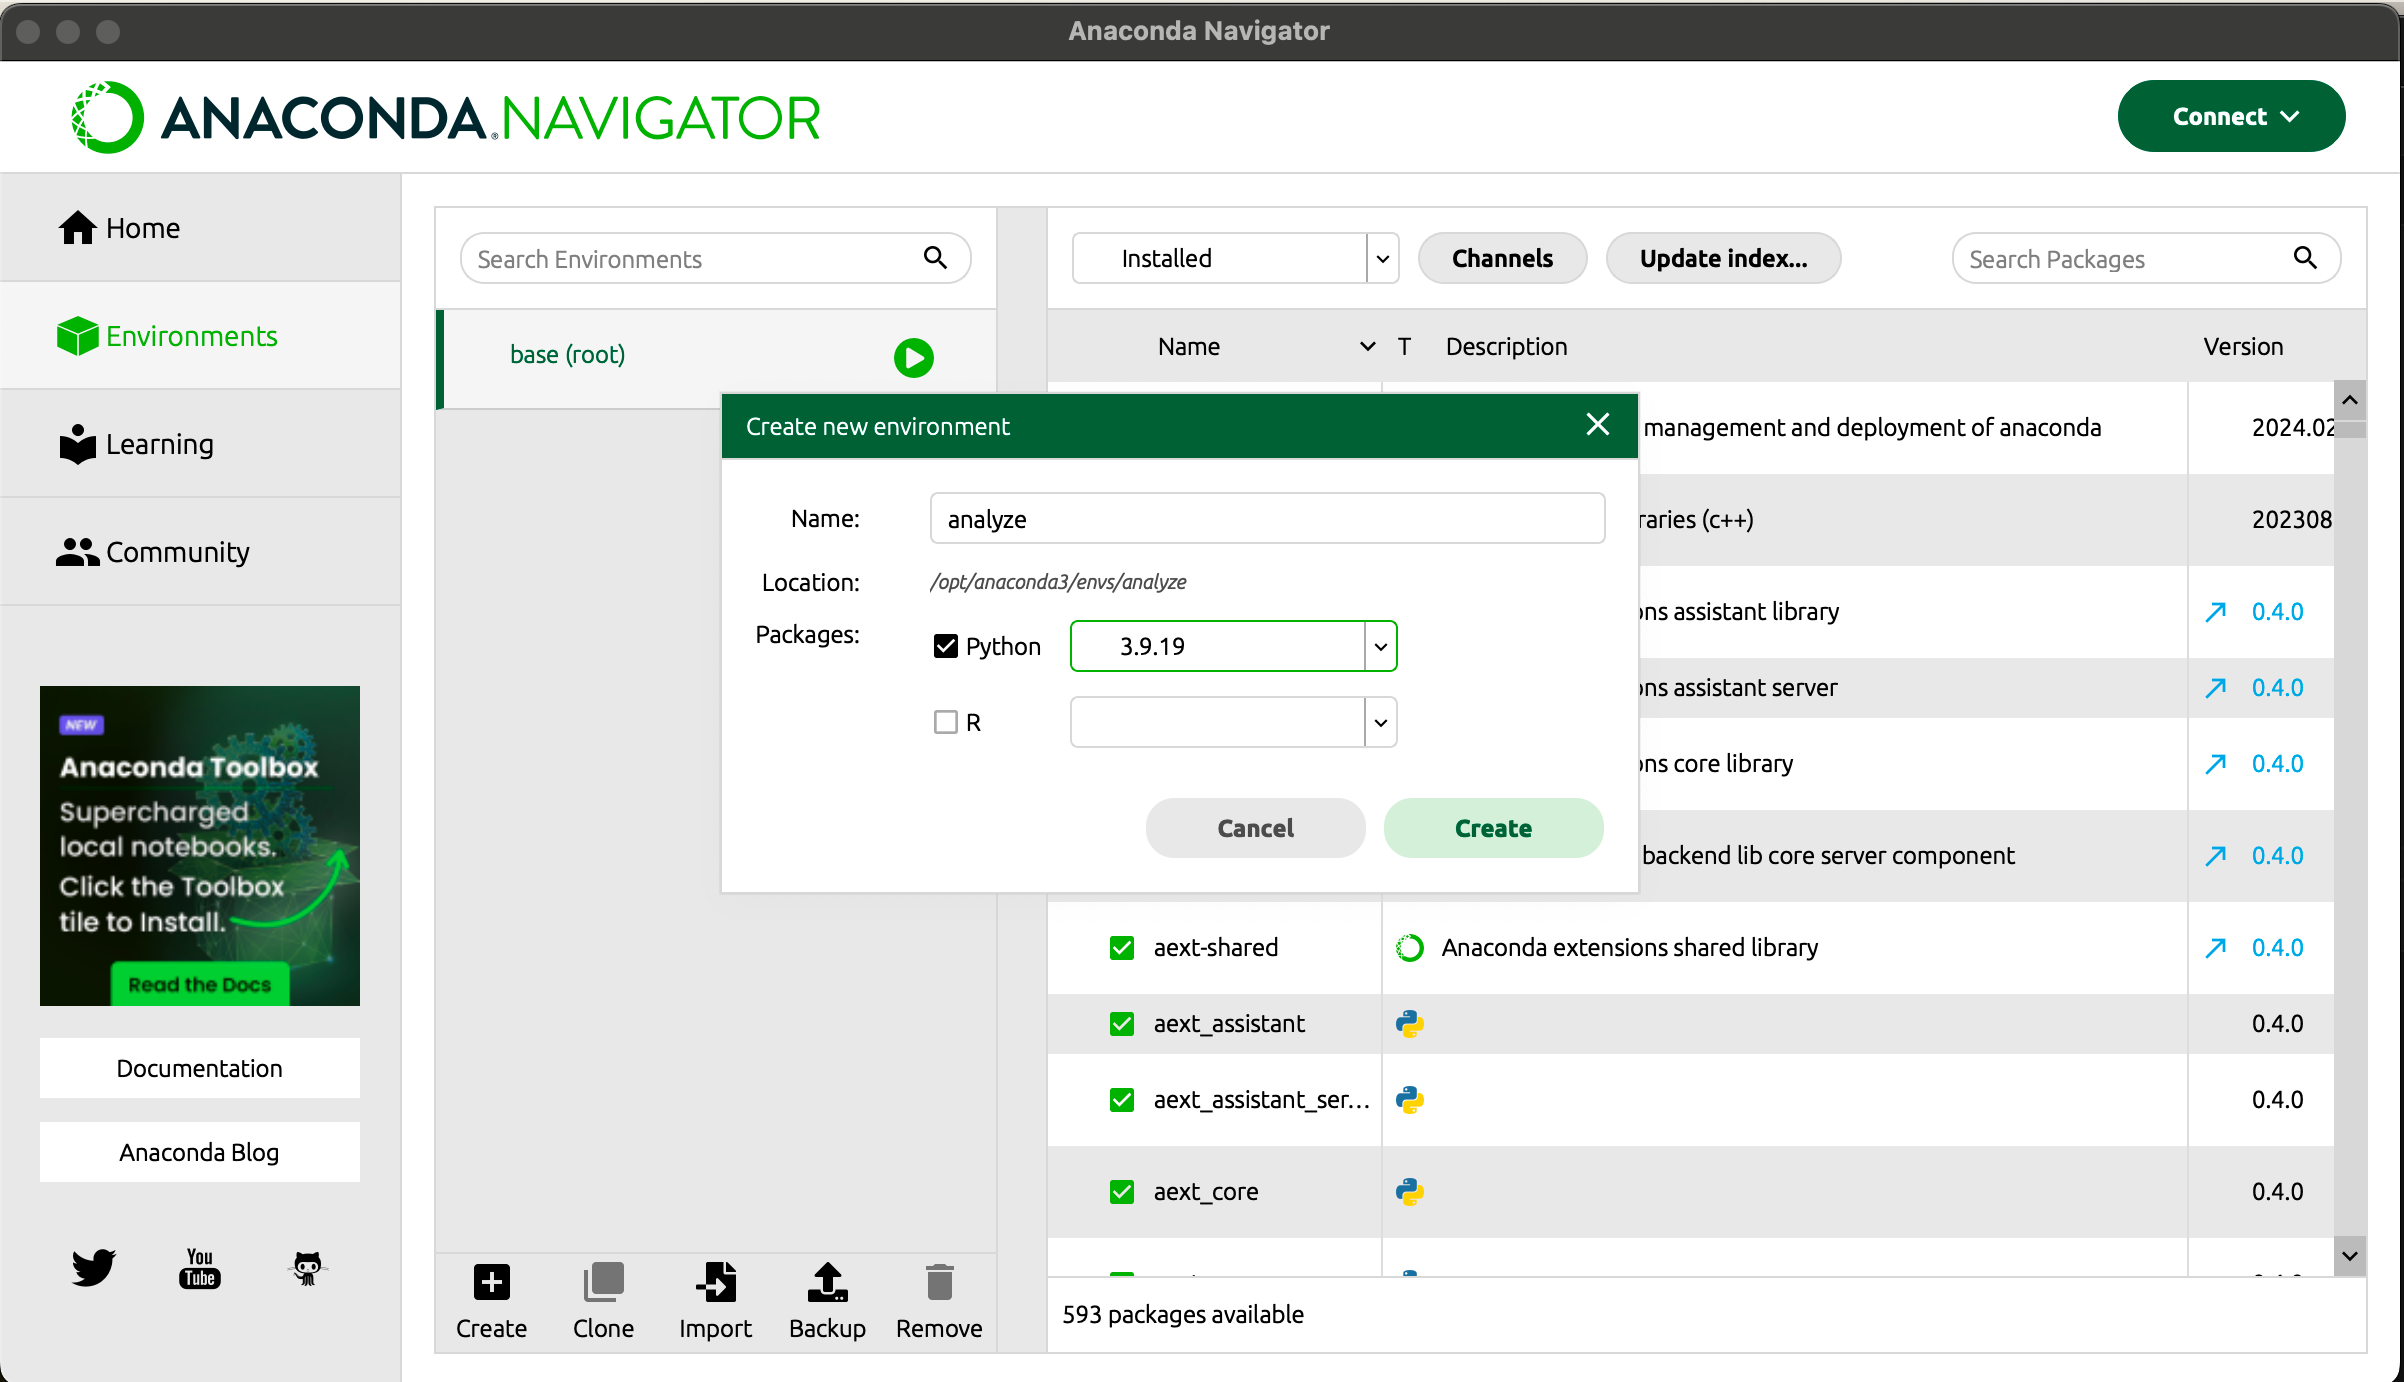
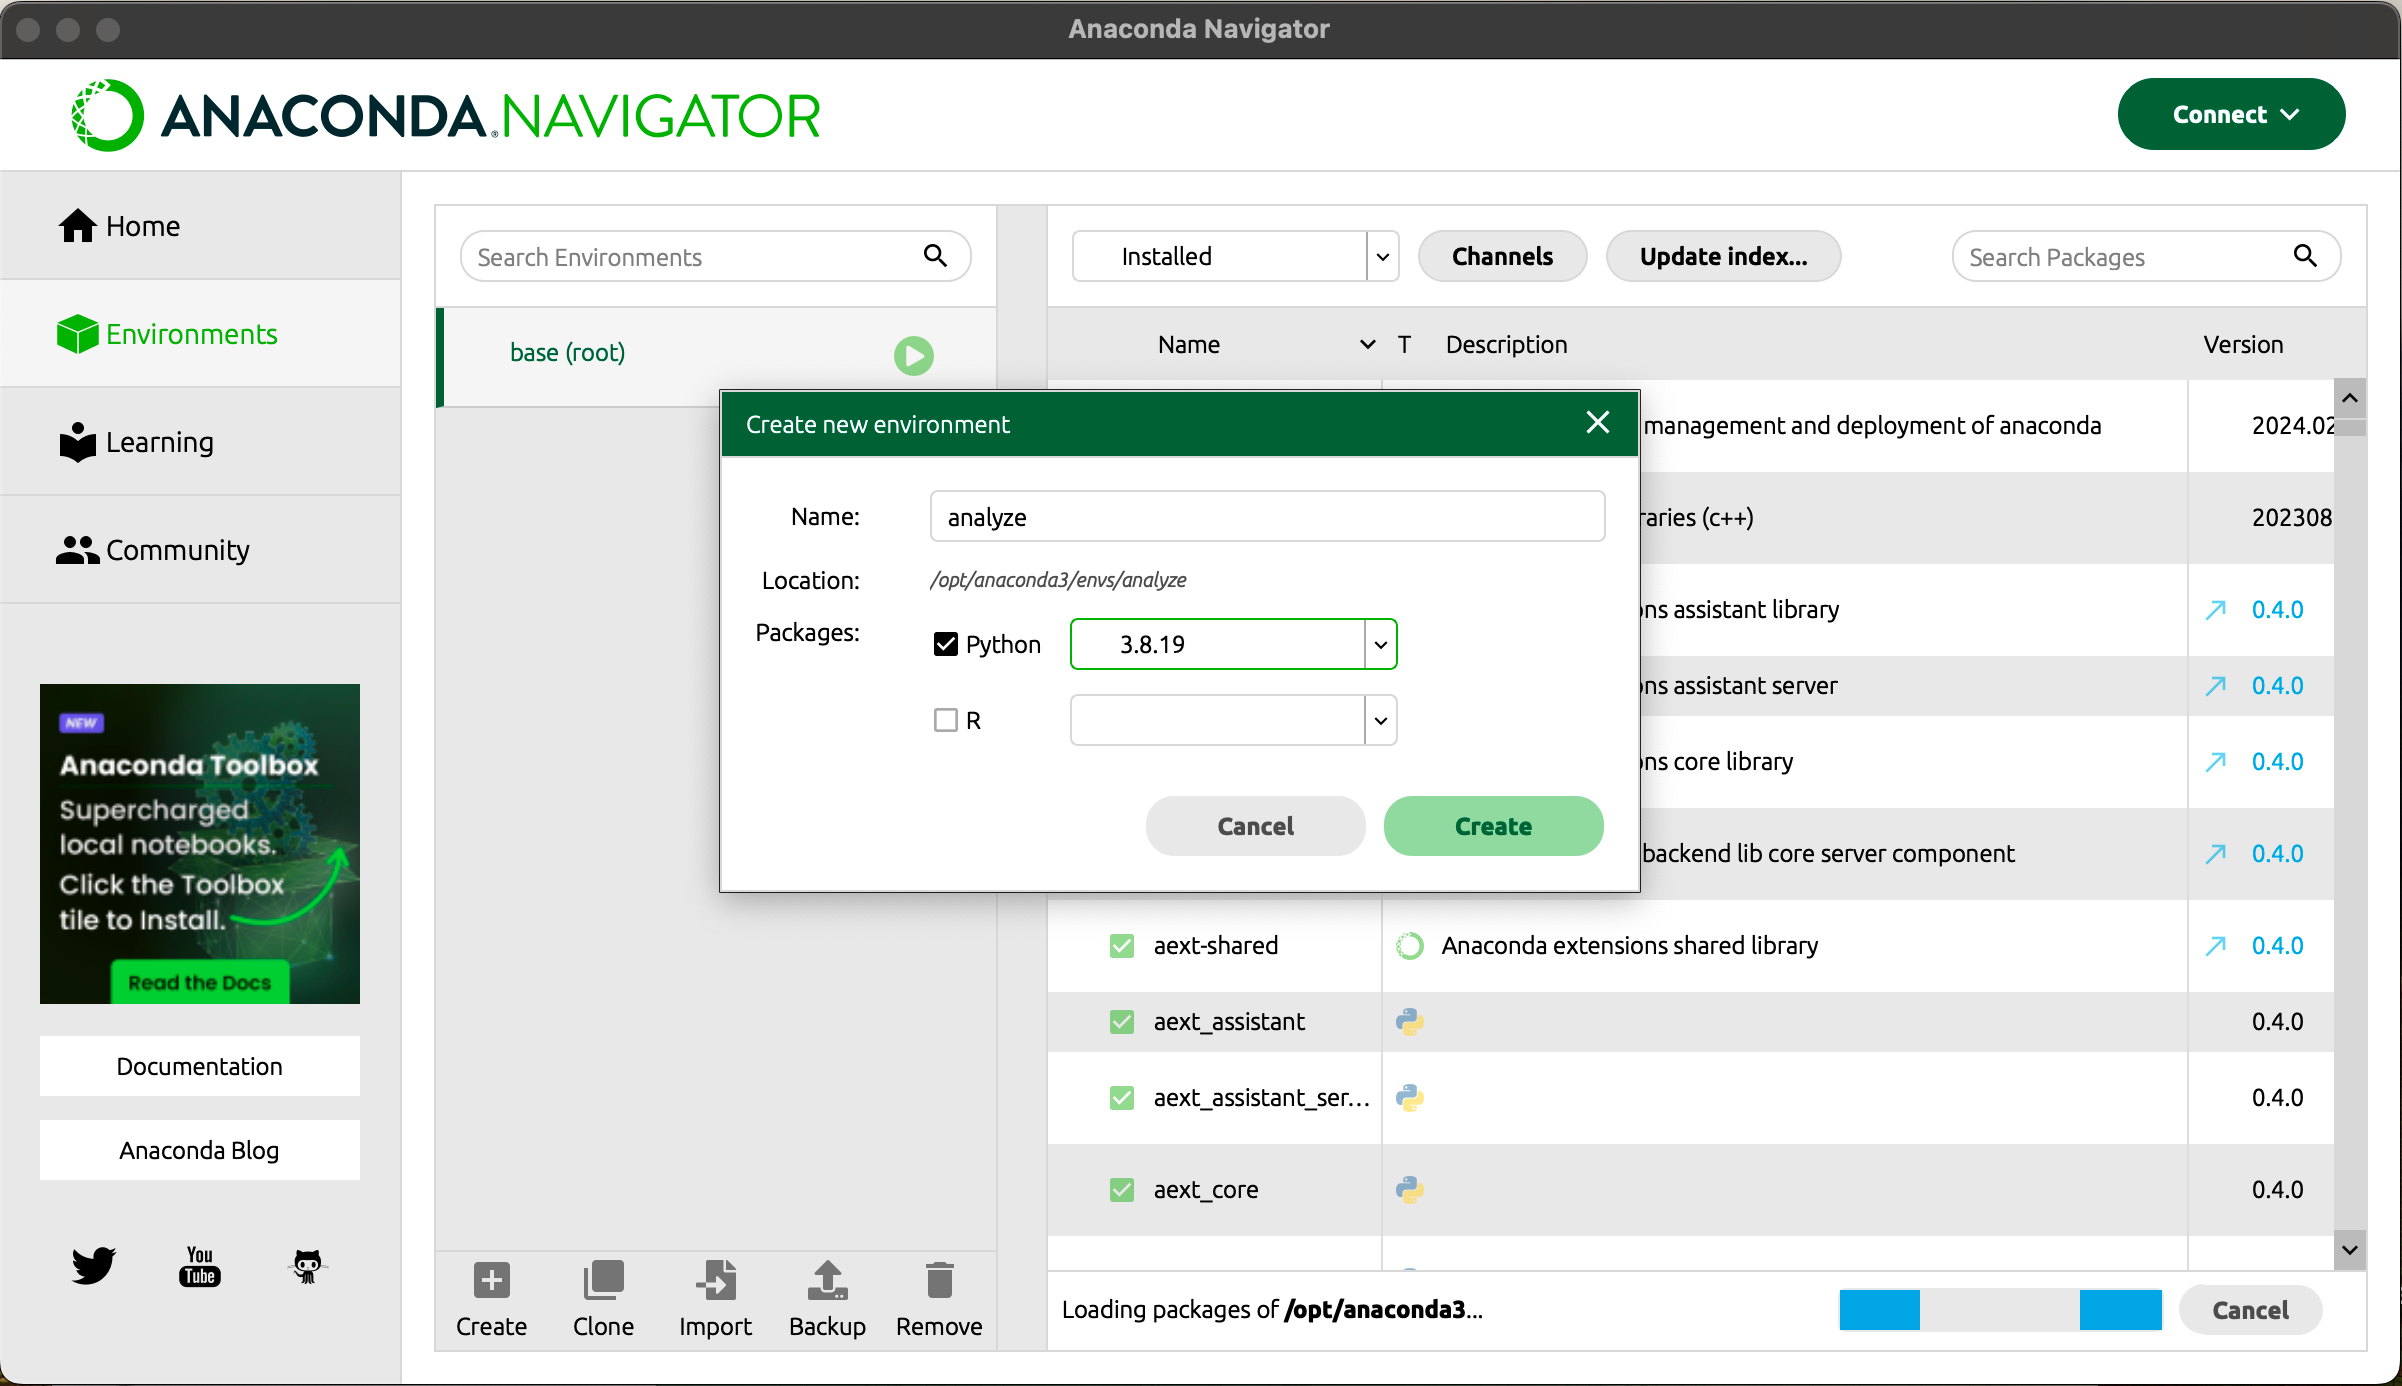
Изменение версии Python в инструкции

diff --git a/README.md b/README.md
@@ -13,7 +13,7 @@
 1. Установить Anaconda (https://www.anaconda.com/download, нажать *skip registration*)
 2. Создать дополнительную виртуальную среду окружения:
     - Перейти в **Environments** и нажать **Create**
-    - В окне выбрать **Python 3.9.xx**, ввести название среды (например, analyze) и нажать **Create**
+    - В окне выбрать **Python 3.8.xx**, ввести название среды (например, analyze) и нажать **Create**
 
 ![Изображение](static/create_venv.png "Установка виртуальной среды")
 
